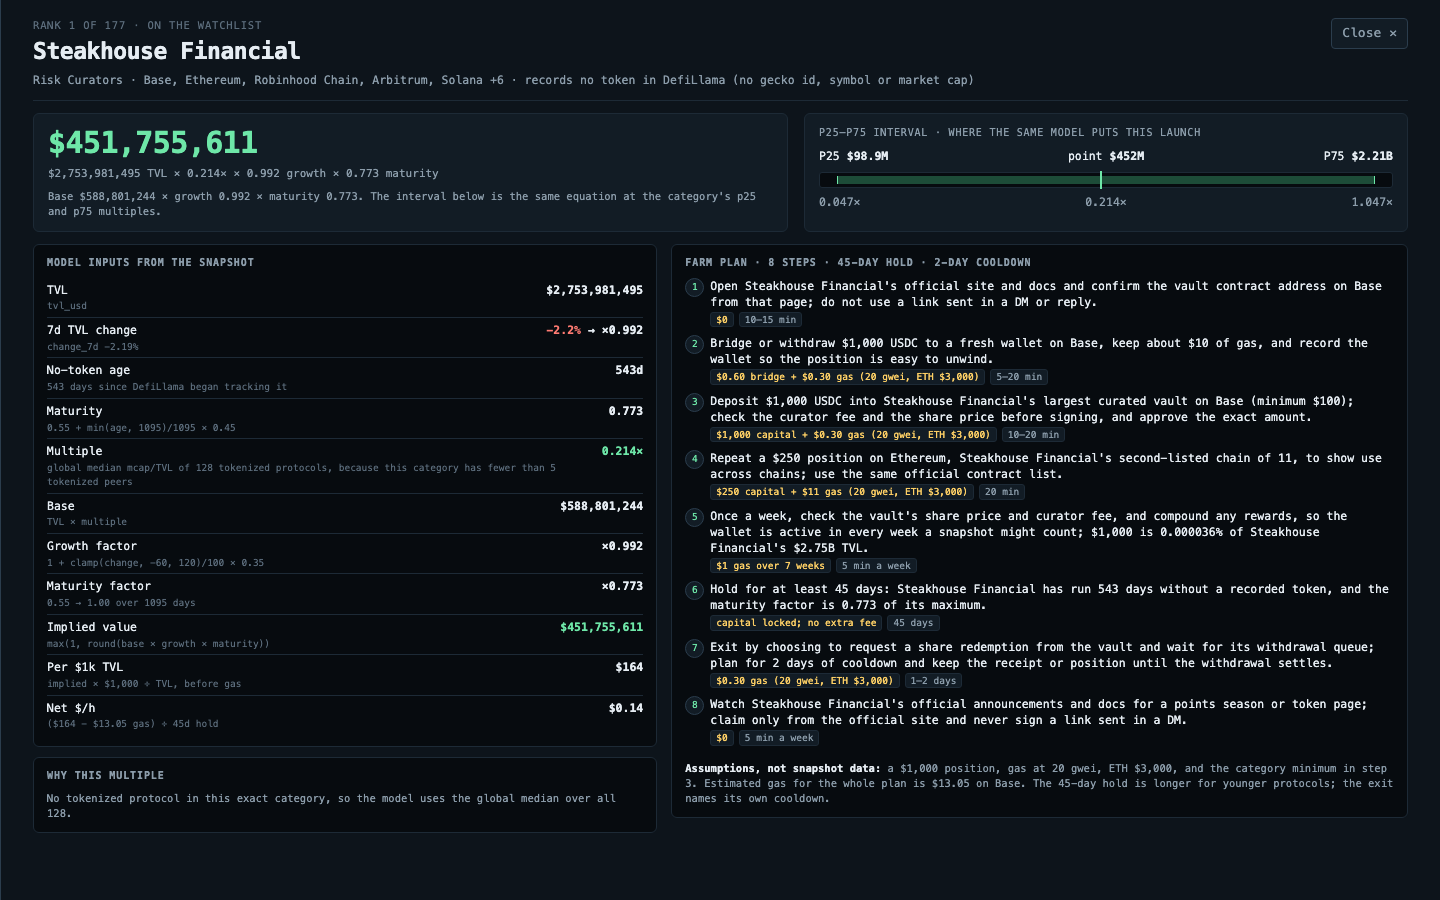
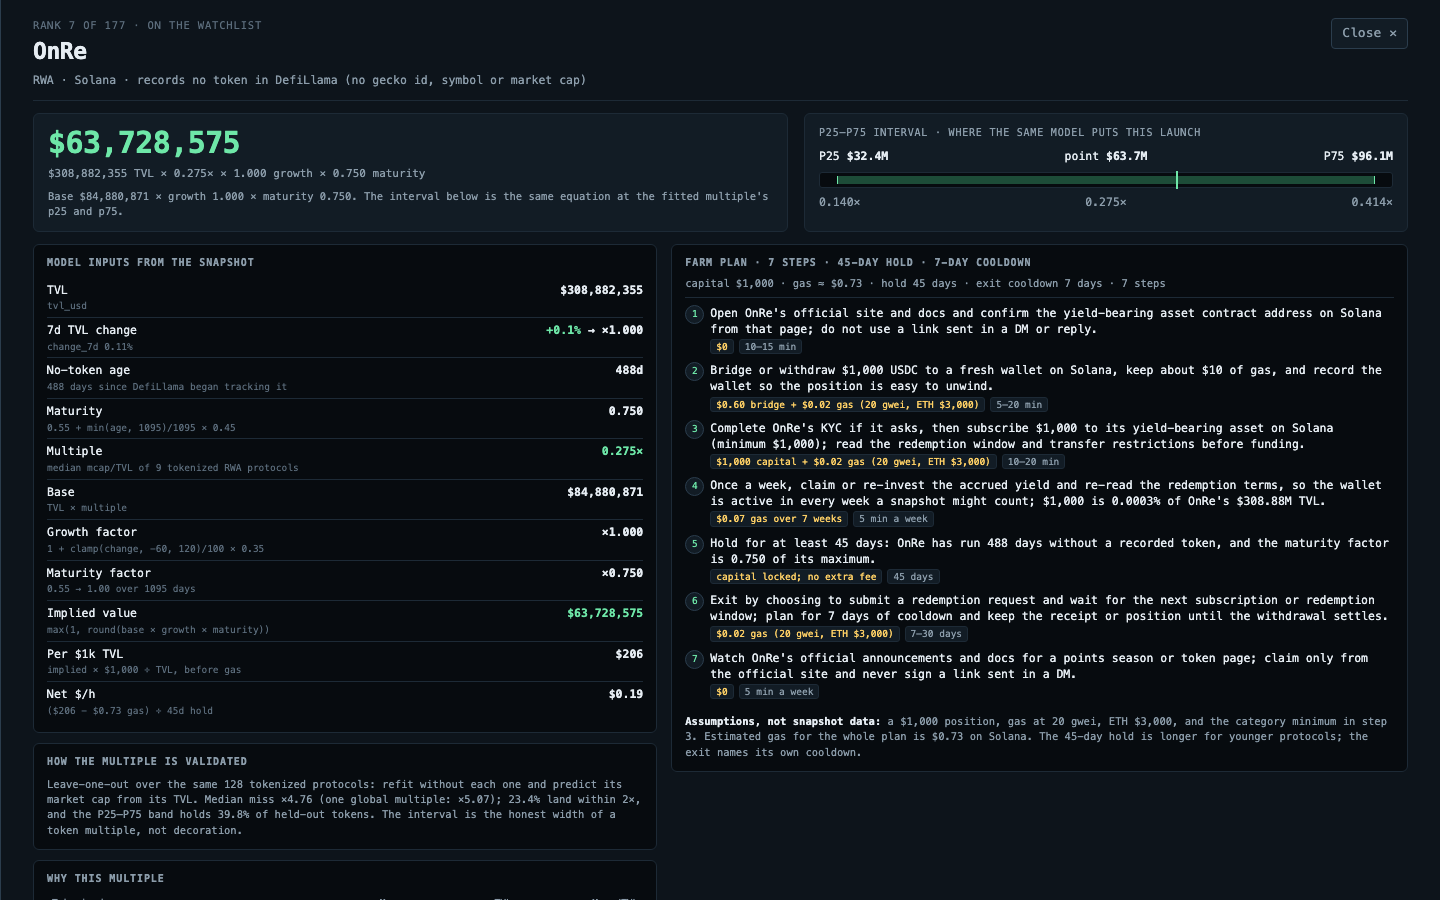
Show the fitted medians and validation in the visible dashboard
- Header names the fitted category medians next to the formula
- Detail view adds a leave-one-out validation card and a plan cost/time summary
- Filtered view shows 2 watchlist and 7 below-floor protocols
- Fourth screenshot captures the Method and validation page
- Correct the interval wording to the fitted multiple's p25/p75

diff --git a/dashboard/app.js b/dashboard/app.js
@@ -23,6 +23,7 @@ if (!R) {
 }
 
 $('#stamp').innerHTML = `<b>SNAPSHOT</b> ${esc(R.as_of)} &middot; ${R.counts.protocols} protocols<br><b>SOURCE</b> DefiLlama &middot; <b>MODEL</b> ${esc(R.model)}`;
+const topCats = [...R.categories].sort((a, b) => b.rows - a.rows || cmpStr(a.name, b.name)).slice(0, 4);
 $('#kpis').innerHTML = [
   [R.counts.ranked, 'pre-token protocols ranked'],
   [`${R.counts.watchlist_ranked}/${R.counts.watchlist}`, 'watchlist covered'],
@@ -31,7 +32,7 @@ $('#kpis').innerHTML = [
   [x2(R.validation.median_miss_factor), 'leave-one-out median miss'],
   [R.counts.set_aside, 'set aside, each with a reason'],
 ].map(([b, s]) => `<div class="kpi"><b>${b}</b><span>${s}</span></div>`).join('');
-$('#methodbar').innerHTML = `<div class="f">value = TVL <i>×</i> category median mcap/TVL <i>×</i> growth <i>×</i> maturity</div><span>fitted on ${R.counts.tokenized} tokenized protocols &middot; 7d ×${MODEL.growth_weight} within ±${-MODEL.growth_lo}/${MODEL.growth_hi}% &middot; maturity ${MODEL.maturity_base}→1.00 over ${MODEL.maturity_days / 365}y</span><button class="go" id="goMethod">Method &amp; validation →</button>`;
+$('#methodbar').innerHTML = `<div class="mtext"><div class="f">value = TVL <i>×</i> category median mcap/TVL <i>×</i> growth <i>×</i> maturity</div><div class="f2">fitted medians: ${topCats.map((k) => `${esc(k.name)} ${x(k.median)}`).join(' · ')} · global ${x(R.global.median)} (n=${R.global.n})</div></div><button class="go" id="goMethod">Method &amp; validation →</button>`;
 
 // ---------------------------------------------------------------- board
 
@@ -172,7 +173,7 @@ function openDetail(slug) {
     <div class="dvalue">
       <div class="big">${full(r.implied_value_usd)}</div>
       <div class="eq">${full(r.tvl_usd)} TVL × ${x(r.multiple)} × ${r.growth_mult.toFixed(3)} growth × ${r.maturity.toFixed(3)} maturity</div>
-      <div class="note">Base ${full(r.base_usd)} × growth ${r.growth_mult.toFixed(3)} × maturity ${r.maturity.toFixed(3)}. The interval below is the same equation at the category's p25 and p75 multiples.</div>
+      <div class="note">Base ${full(r.base_usd)} × growth ${r.growth_mult.toFixed(3)} × maturity ${r.maturity.toFixed(3)}. The interval below is the same equation at the fitted multiple's p25 and p75.</div>
     </div>
     <div class="dband">
       <div class="lab">P25–P75 interval · where the same model puts this launch</div>
@@ -198,11 +199,13 @@ function openDetail(slug) {
           <div class="row"><div class="l"><span class="k">Net $/h</span><span class="e">(${full(r.per_1k_usd)} − ${one(r.gas_total_usd)} gas) ÷ ${r.hold_days}d hold</span></div><span class="v">${one(r.net_per_hour_usd)}</span></div>
         </div>
       </div>
+      <div class="card"><h3>How the multiple is validated</h3><p class="note">Leave-one-out over the same ${R.counts.tokenized} tokenized protocols: refit without each one and predict its market cap from its TVL. Median miss ${x2(R.validation.median_miss_factor)} (one global multiple: ${x2(R.validation.global_median_miss_factor)}); ${R.validation.within_2x_pct}% land within 2×, and the P25–P75 band holds ${R.validation.interval_coverage_pct}% of held-out tokens. The interval is the honest width of a token multiple, not decoration.</p></div>
       <div class="card"><h3>Why this multiple</h3>${peers}</div>
       ${r.missing.length ? `<div class="card warn"><h3>Assumptions for missing fields</h3><ul>${r.missing.map((m) => `<li>${esc(m)}</li>`).join('')}</ul></div>` : ''}
     </div>
     <div>
       <div class="card"><h3>Farm plan · ${r.plan.length} steps · ${r.hold_days}-day hold · ${r.cooldown_days}-day cooldown</h3>
+        <div class="plansum">capital ${full(PLAN.position_usd)} · gas ≈ ${one(r.gas_total_usd)} · hold ${r.hold_days} days · exit cooldown ${r.cooldown_days} days · ${r.plan.length} steps</div>
         <ol class="steps">${r.plan.map((s) => `<li>${esc(s.do)}<div class="chips"><span class="chip c">${esc(s.cost)}</span><span class="chip">${esc(s.time)}</span></div></li>`).join('')}</ol>
         <p class="note"><b>Assumptions, not snapshot data:</b> a ${full(PLAN.position_usd)} position, gas at ${esc(PLAN.gas_note)}, and the category minimum in step 3. Estimated gas for the whole plan is ${one(r.gas_total_usd)} on ${esc(r.chains[0] ?? 'the first chain')}. The ${r.hold_days}-day hold is longer for younger protocols; the exit names its own cooldown.</p>
       </div>
@@ -248,7 +251,7 @@ function renderMethod() {
     <div>growth_i <span>=</span> 1 + clamp(change_7d_i, ${MODEL.growth_lo}, ${MODEL.growth_hi}) / 100 × ${MODEL.growth_weight}</div>
     <div>maturity_i <span>=</span> ${MODEL.maturity_base} + min(age_days_i, ${MODEL.maturity_days}) / ${MODEL.maturity_days} × ${MODEL.maturity_span}</div>
     <div>implied_i <span>=</span> max(${MODEL.value_floor_usd}, round(base_i × growth_i × maturity_i))</div>
-    <div>interval_i <span>=</span> the same formula at the category's p25 and p75 multiples</div>
+    <div>interval_i <span>=</span> the same formula at the fitted multiple's p25 and p75 (category when n ≥ ${MODEL.min_peers}, else global)</div>
   </div>
   <p>Nothing here is a constant typed in by hand. The multiple is refitted from the snapshot's own ${c.tokenized} tokenized protocols every run; a category with fewer than ${MODEL.min_peers} tokenized peers borrows the global median. Growth counts a week of TVL change at ${MODEL.growth_weight}× and clamps it to ${MODEL.growth_lo}/${MODEL.growth_hi}%. Maturity rises from ${MODEL.maturity_base} to 1.00 over ${MODEL.maturity_days} days: TVL that has run three years without a token is treated as proven demand.</p>
   <div class="mgrid">

diff --git a/dashboard/app.css b/dashboard/app.css
@@ -40,9 +40,11 @@ h1 { font-size: 19px; letter-spacing: .16em; font-weight: 700; }
 .kpi span { display: block; color: var(--muted); font-size: 10.5px; margin-top: 1px; white-space: nowrap; overflow: hidden; text-overflow: ellipsis; }
 .kpi:first-child b { color: var(--acc); }
 
-.methodbar { display: flex; align-items: center; gap: 14px; padding: 8px 24px; border-bottom: 1px solid var(--line); background: var(--panel); font-size: 11.5px; color: var(--muted); }
+.methodbar { display: flex; align-items: center; gap: 14px; padding: 7px 24px; border-bottom: 1px solid var(--line); background: var(--panel); font-size: 11.5px; color: var(--muted); }
+.methodbar .mtext { flex: 1; min-width: 0; }
 .methodbar .f { color: var(--ink); white-space: nowrap; overflow: hidden; text-overflow: ellipsis; }
 .methodbar .f i { color: var(--acc); font-style: normal; }
+.methodbar .f2 { color: var(--faint); font-size: 10px; margin-top: 2px; white-space: nowrap; overflow: hidden; text-overflow: ellipsis; }
 .methodbar .go { margin-left: auto; background: none; border: 1px solid var(--line2); color: var(--muted); border-radius: 4px; padding: 2px 8px; cursor: pointer; white-space: nowrap; }
 .methodbar .go:hover { color: var(--ink); border-color: var(--acc); }
 
@@ -114,6 +116,7 @@ td.rank.top { color: var(--acc); font-weight: 700; }
 .dcols { display: grid; grid-template-columns: 1fr 1.18fr; gap: 14px; align-items: start; }
 .card { background: var(--bg); border: 1px solid var(--line); border-radius: 6px; padding: 11px 13px; margin-bottom: 10px; }
 .card h3 { color: var(--muted); font-size: 10px; text-transform: uppercase; letter-spacing: .09em; font-weight: 600; margin-bottom: 7px; }
+.plansum { color: var(--muted); font-size: 10.5px; margin: -2px 0 7px; padding-bottom: 6px; border-bottom: 1px solid var(--line); }
 .kv { display: grid; grid-template-columns: auto 1fr auto; gap: 3px 9px; font-size: 11.5px; align-items: baseline; }
 .kv .k { color: var(--muted); white-space: nowrap; }
 .kv .e { color: var(--faint); font-size: 10px; }
